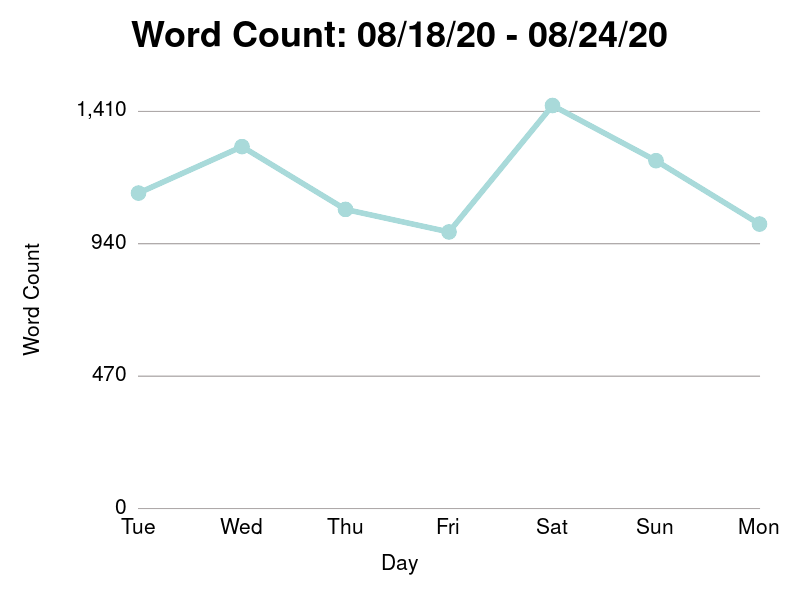
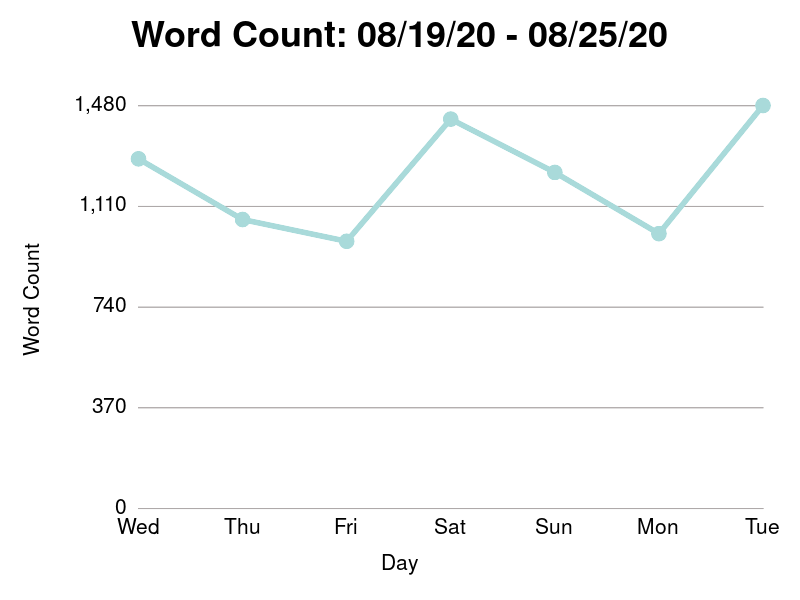
Post

diff --git a/entries/2020-08-25.md b/entries/2020-08-25.md
@@ -1,0 +1,185 @@
+---
+title: emails, slip n slides, and getting my ass kicked by a frozen chicken
+---
+
+Dear Journal,
+
+Good morning, everyone.  Happy Tuesday.  It's an honor to be here
+alongside you in an actual work week for a change.  I've got a fresh
+outfit on.  I'm enjoying the first few sips of a fresh, piping hot pot
+of coffee - I'm right where I'm supposed to be.
+
+The plan this morning was to wake up early, catch up on dishes,
+shower, and with some coffee, perhaps stand out on the deck for a
+moment of reflection about the summer before jumping into work again.
+If it were a movie, what I was picturing this morning would have been
+scored by something orchestral from Hans Zimmer.  A dramatic montage
+of me doing yoga outside, like Tom Cruise in the Last Samurai.  Maybe
+even throw in a gleaming sunrise if it didn't look too contrived.
+
+But I didn't get the long, thoughtful montage of reflection out on the
+deck this morning.  My head shot up almost an hour and a half after my
+alarm allegedly went off.  I woke up to a suspiciously bright bedroom.
+I greeted the day with a gruff string of cuss words as I sprang to my
+tired feet.
+
+And so the work week begins like a comedy.  I'm the disheveled
+protagonist, bouncing around the house in the morning to... I don't
+know... yakkity sax or something.  Brewing coffee with one hand,
+feeding the dogs with the other, and I spent as much time in the
+shower as I would running through a sprinkler outside.
+
+I would have liked to have more time this morning, but it's not so
+bad.  Once I sit down at my computer, the morning routine is a distant
+memory.
+
+_Sip_.  I kicked off yesterday by cleaning up my upstairs office.
+Sweeping under the chairs, wiping off my desk with Windex, cleaning my
+monitor with a little alcohol rag.  It was like therapy for my soul.
+
+"Did you... clean this chair?" said Marissa sitting down in her usual
+spot in the corner.
+
+"No - I just cleaned everything around it.  And it must have rubbed
+off on the chair," I replied.
+
+My fancy new pair of noise cancelling headphones completes the remote
+worker paradise.  I booted up my sleepy work computer and put on some
+gospel music, then got to work updating software and taking my
+calendar off of vacation mode.  The big project of the morning was
+going through my email.
+
+I had about five hundred unread messages waiting in my inbox.  It's
+not like I was going to sit there and actually read all of them - work
+email doesn't work that way.  Plus, after three months of leave, most
+of it wasn't applicable to me anymore.  I missed the remote tech
+summit we held this summer, there were boatloads of announcements
+about the shift to mandatory remote work for the rest of the year, and
+everything after that was just spam from Thousand Eyes (Thousand Eyes?
+More like a _Thousand Emails_).
+
+Having such a full mailbox proved to be a great testing ground to
+spruce of my gmail filters.  In less than an hour, once again I had
+gmail the way I liked it - everything read and archived - a completely
+uncomfortable white screen.
+
+We ate some lunch, and I returned to my computer to keep chipping away
+at my TODO list.  With my email and calendar set up again, I was off
+and running on the fun, less important part of my list, updating some
+of my personal scripts and cleaning up configs.
+
+Out our bedroom window, I could hear Marissa and Rodney laughing in
+the front yard.  Marissa had set up the slip 'n slide for Rodney, and
+the giggles creeping in through the window must have meant that he was
+getting the hang of it.  I took a coffee break on the front porch and
+asked for a demonstration.
+
+Rodney fastened his lizard goggles over his face, his eyes obscured by
+murky yellow lenses.  He took a few steps back and flopped on his
+belly, army crawling down the length of the slip and slide.  Marissa
+shrugged.
+
+"Rodney, let's show him the other game he made up," said Marissa.
+Marissa took a power stance and flexed.  "I'm... THE LIZZARD" the
+screeched.  Rodney swiftly dodged an attack, rolling between her legs
+in the last moment.
+
+"I feel a little jealous," I laughed.  "It's like I had to go back to
+school while all my friends are still on summer vacation."
+
+Marissa was handling the return to full time Rodney duty gracefully.
+Breaking out a slip 'n slide on a Monday morning was ambitious, but
+not without reward.  Rodney would be zapped the rest of the day,
+taking a long nap and biding his time before dinner with some quiet
+video games.
+
+"Don't laugh, but I'm really sore too," said Marissa.  "I don't think
+this slip and slide was made for adults.  That thing hurts."
+
+At quitting time, I locked my laptop and headed downstairs to start on
+dinner.  I had a chicken thawing in the basement sink all afternoon,
+planning to roast it in the oven with potatoes and onions.  And just
+because I was feeling cocky, I sliced up the rest of our zucchini and
+Brussels sprouts too.
+
+The trouble started after I took the chicken out of the plastic.  The
+inside was still a frozen, but since I could pull the legs apart wide
+enough to stuff (and visually confirm that there wasn't any plastic
+inside), I decided to press on.  I stuffed the bird with shallots,
+parsley, and garlic cloves, and trussed it on my cutting board.
+
+"Four hundred degrees for fifty minutes," I said thinking aloud.  "How
+about... let's do four twenty... for an hour."  I had to make up for
+the still frozen center, after all.
+
+An hour passed.  The oven timer rang.  I cracked open the oven door to
+check how things were progressing.  The chicken had started to brown
+on top, but the vegetables were still ghostly white.  I checked the
+temperature, and as soon as my thermometer broke the thigh, it gushed
+dark red.  _Crap_.
+
+I walked a lap around the kitchen and took a deep breath.  "Don't
+worry about it," I said quietly.  "It's only seven.  Give it another
+half hour and set out some bread."
+
+I slid the tray back into the oven and joined Rodney on the computer,
+who was absent-mindedly clicking around the Nick Jr. website.
+
+"Whatcha watching, dude?" I asked.
+
+"Oh, hi dada," he said.  I handed Rodney a piece of buttered bread.
+"Thanks," he said placing it beside the keyboard.
+
+The oven timer rang.  The chicken was darker, but the vegetables were
+still undercooked.  The temperature of the bird told me we still had a
+way to go.  I started to get frustrated.
+
+"Calm down," I told myself.  "It's only 7:30.  We can eat at 8 - it's
+no big deal."
+
+Using my biggest knife, I cut the back out of the bird to split it
+open, hoping to speed up the cooking.  Hidden in the center of its
+chest cavity was a round little ice cube shaped like a rib cage.  That
+explained why the vegetables were taking their time - they were
+practically sitting in an ice bath.  I sighed, throwing the ice cube
+into the garbage.
+
+I removed the chicken and tried to broil the vegetables dry.  I ended
+up just finishing the chicken in the microwave.  While getting the
+plates out, Marissa began to tee up a joke, but I gruffly cut it
+short.
+
+"I don't want to joke about this right now," I said before slumping
+into my seat.
+
+After about fifteen minutes picking at microwaved chicken and grey
+vegetables in silence, I willed myself out of my dark place.
+
+"I'm disappointed I didn't just throw all of this away earlier.  I
+could have saved us a lot of time and cleanup if we just ordered a
+pizza or something."
+
+"It's OK," said Marissa.  "I think it actually tastes pretty good."
+
+Rodney took a bite of his food, and in a sudden panic started to fan
+his mouth.  "WOW SO spicy," he said taking a swig of milk with his
+mouth full.  I held out my hand, into which he spit a full clove of
+grey garlic.
+
+"What was your joke?" I asked.
+
+"What?" said Marissa.
+
+"The joke you were going to tell?"
+
+"Ah," said Marissa, gathering herself.  "_You know Pam, in Spain they
+often don't even start eating until midnight_."
+
+I cracked a smile.  "That's funny.  Sorry for being an ass."
+
+So sleeping through my alarm this morning after getting my ass kicked
+by a frozen chicken the night before - not the way I would have wanted
+to start off my first work week.  But that's what I'm working with
+today.  I'm still right where I'm supposed to be.
+
+Have a great day everyone.
